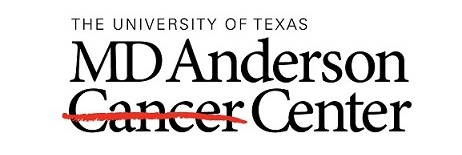
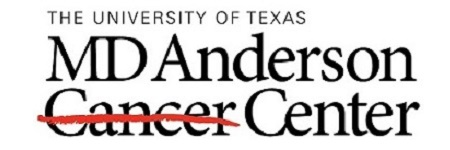
Updated Users Page Layout.

diff --git a/css/styles-2016-11-22.css b/css/styles-2016-11-22.css
@@ -837,6 +837,6 @@ ol.ordered-list li {
 
 @media (min-width: 1000px){
     #customers-logo img {
-        width: 80%;
+        width: 100%;
     }
 }

diff --git a/users.php b/users.php
@@ -19,79 +19,79 @@
 
 
     <div id="customers-logo" class="row">
-        <div class="col-md-4 col-sm-6">
+        <div class="col-md-3 col-sm-4 col-xs-6">
             <img src="img/clients/UTH.jpg" alt="University of Texas Health Science Center." class="thumbnail"/>
         </div>
-        <div class="col-md-4 col-sm-6">
+        <div class="col-md-3 col-sm-4 col-xs-6">
             <img src="img/clients/BERGHealth.png" alt="BERG Health" class="thumbnail"/>
         </div>
-        <div class="col-md-4 col-sm-6">
+        <div class="col-md-3 col-sm-4 col-xs-6">
             <img src="img/clients/MDAnderson.jpeg" alt="MD Anderson Cancer Center" class="thumbnail"/>
         </div>
-        <div class="col-md-4 col-sm-6">
+        <div class="col-md-3 col-sm-4 col-xs-6">
             <img src="img/clients/BaylorCollegeofMedicine.jpg" alt="Baylor College of Medicine" class="thumbnail"/>
         </div>
-        <div class="col-md-4 col-sm-6">
+        <div class="col-md-3 col-sm-4 col-xs-6">
             <img src="img/clients/ApolloHIT.png" alt="Apollo HIT" class="thumbnail"/>
         </div>
-        <div class="col-md-4 col-sm-6">
+        <div class="col-md-3 col-sm-4 col-xs-6">
             <img src="img/clients/AssurerxHealthInc.jpg" alt="Assurerx Health Inc" class="thumbnail"/>
         </div>
-        <div class="col-md-4 col-sm-6">
+        <div class="col-md-3 col-sm-4 col-xs-6">
             <img src="img/clients/CaseWesternReverseUniversity.png" alt="Case Western Reverse University" class="thumbnail"/>
         </div>
-        <div class="col-md-4 col-sm-6">
+        <div class="col-md-3 col-sm-4 col-xs-6">
             <img src="img/clients/ColumbiaUniversity.png" alt="Columbia University" class="thumbnail"/>
         </div>
-        <div class="col-md-4 col-sm-6">
+        <div class="col-md-3 col-sm-4 col-xs-6">
             <img src="img/clients/CUHK.jpg" alt="CUHK" class="thumbnail"/>
         </div>        
-        <div class="col-md-4 col-sm-6">
+        <div class="col-md-3 col-sm-4 col-xs-6">
             <img src="img/clients/MCGHealthLLC.jpg" alt="MCG Health LLC" class="thumbnail"/>
         </div>
-        <div class="col-md-4 col-sm-6">
+        <div class="col-md-3 col-sm-4 col-xs-6">
             <img src="img/clients/NCHHealth.jpg" alt="NCH Health" class="thumbnail"/>
         </div>
-        <div class="col-md-4 col-sm-6">
+        <div class="col-md-3 col-sm-4 col-xs-6">
             <img src="img/clients/CIC-IPN.jpg" alt="CIC-IPN" class="thumbnail"/>
         </div>
-        <div class="col-md-4 col-sm-6">
+        <div class="col-md-3 col-sm-4 col-xs-6">
             <img src="img/clients/JiangsuProvinceHospital.jpg" alt="Jiangsu Province Hospital" class="thumbnail"/>
         </div>
-        <div class="col-md-4 col-sm-6">
+        <div class="col-md-3 col-sm-4 col-xs-6">
             <img src="img/clients/NorthwesternUniversity.png" alt="Northwestern University" class="thumbnail"/>
         </div>
-        <div class="col-md-4 col-sm-6">
+        <div class="col-md-3 col-sm-4 col-xs-6">
             <img src="img/clients/SichuanUniversity.png" alt="Sichuan University" class="thumbnail"/>
         </div>
-        <div class="col-md-4 col-sm-6">
+        <div class="col-md-3 col-sm-4 col-xs-6">
             <img src="img/clients/StanfordUniversity.png" alt="Stanford University" class="thumbnail"/>
         </div>
-        <div class="col-md-4 col-sm-6">
+        <div class="col-md-3 col-sm-4 col-xs-6">
             <img src="img/clients/VirginiaCommonwealthUniversity.jpg" alt="Virginia Commonwealth University" class="thumbnail"/>
         </div>
-        <div class="col-md-4 col-sm-6">
+        <div class="col-md-3 col-sm-4 col-xs-6">
             <img src="img/clients/USF.jpg" alt="USF" class="thumbnail"/>
         </div>
-        <div class="col-md-4 col-sm-6">
+        <div class="col-md-3 col-sm-4 col-xs-6">
             <img src="img/clients/UniversityOfHeidelberg.png" alt="University Of Heidelberg" class="thumbnail"/>
         </div>
-        <div class="col-md-4 col-sm-6">
+        <div class="col-md-3 col-sm-4 col-xs-6">
             <img src="img/clients/UniversityOfMarylandBaltimoreCounty.png" alt="University Of Maryland Baltimore County" class="thumbnail"/>
         </div>
-        <div class="col-md-4 col-sm-6">
+        <div class="col-md-3 col-sm-4 col-xs-6">
             <img src="img/clients/UCSDBioinformatics.png" alt="UCSD Bioinformatics" class="thumbnail"/>
         </div>
-        <div class="col-md-4 col-sm-6">
+        <div class="col-md-3 col-sm-4 col-xs-6">
             <img src="img/clients/UniversityOfMinnesota.png" alt="University Of Minnesota" class="thumbnail"/>
         </div>
-        <div class="col-md-4 col-sm-6">
+        <div class="col-md-3 col-sm-4 col-xs-6">
             <img src="img/clients/UniversityOfUtah.png" alt="University Of Utah" class="thumbnail"/>
         </div>
-        <div class="col-md-4 col-sm-6">
+        <div class="col-md-3 col-sm-4 col-xs-6">
             <img src="img/clients/UPMC.jpg" alt="UPMC" class="thumbnail"/>
         </div>
-        <div class="col-md-4 col-sm-6">
+        <div class="col-md-3 col-sm-4 col-xs-6">
             <img src="img/clients/VanderbiltUniversity.jpg" alt="Vanderbilt University" class="thumbnail"/>
         </div>
     </div>

diff --git a/views/header.php b/views/header.php
@@ -86,7 +86,7 @@
         <link rel="stylesheet" href="css/jquery.css">
         <link rel="stylesheet" href="css/animate.css">    
         <link rel="stylesheet" href="css/responsive.css">
-        <link rel="stylesheet" href="css/styles-2016-11-08.css">
+        <link rel="stylesheet" href="css/styles-2016-11-22.css">
 
         <script src="js/jquery.js"></script>
         <script src="js/bootstrap.js"></script>
